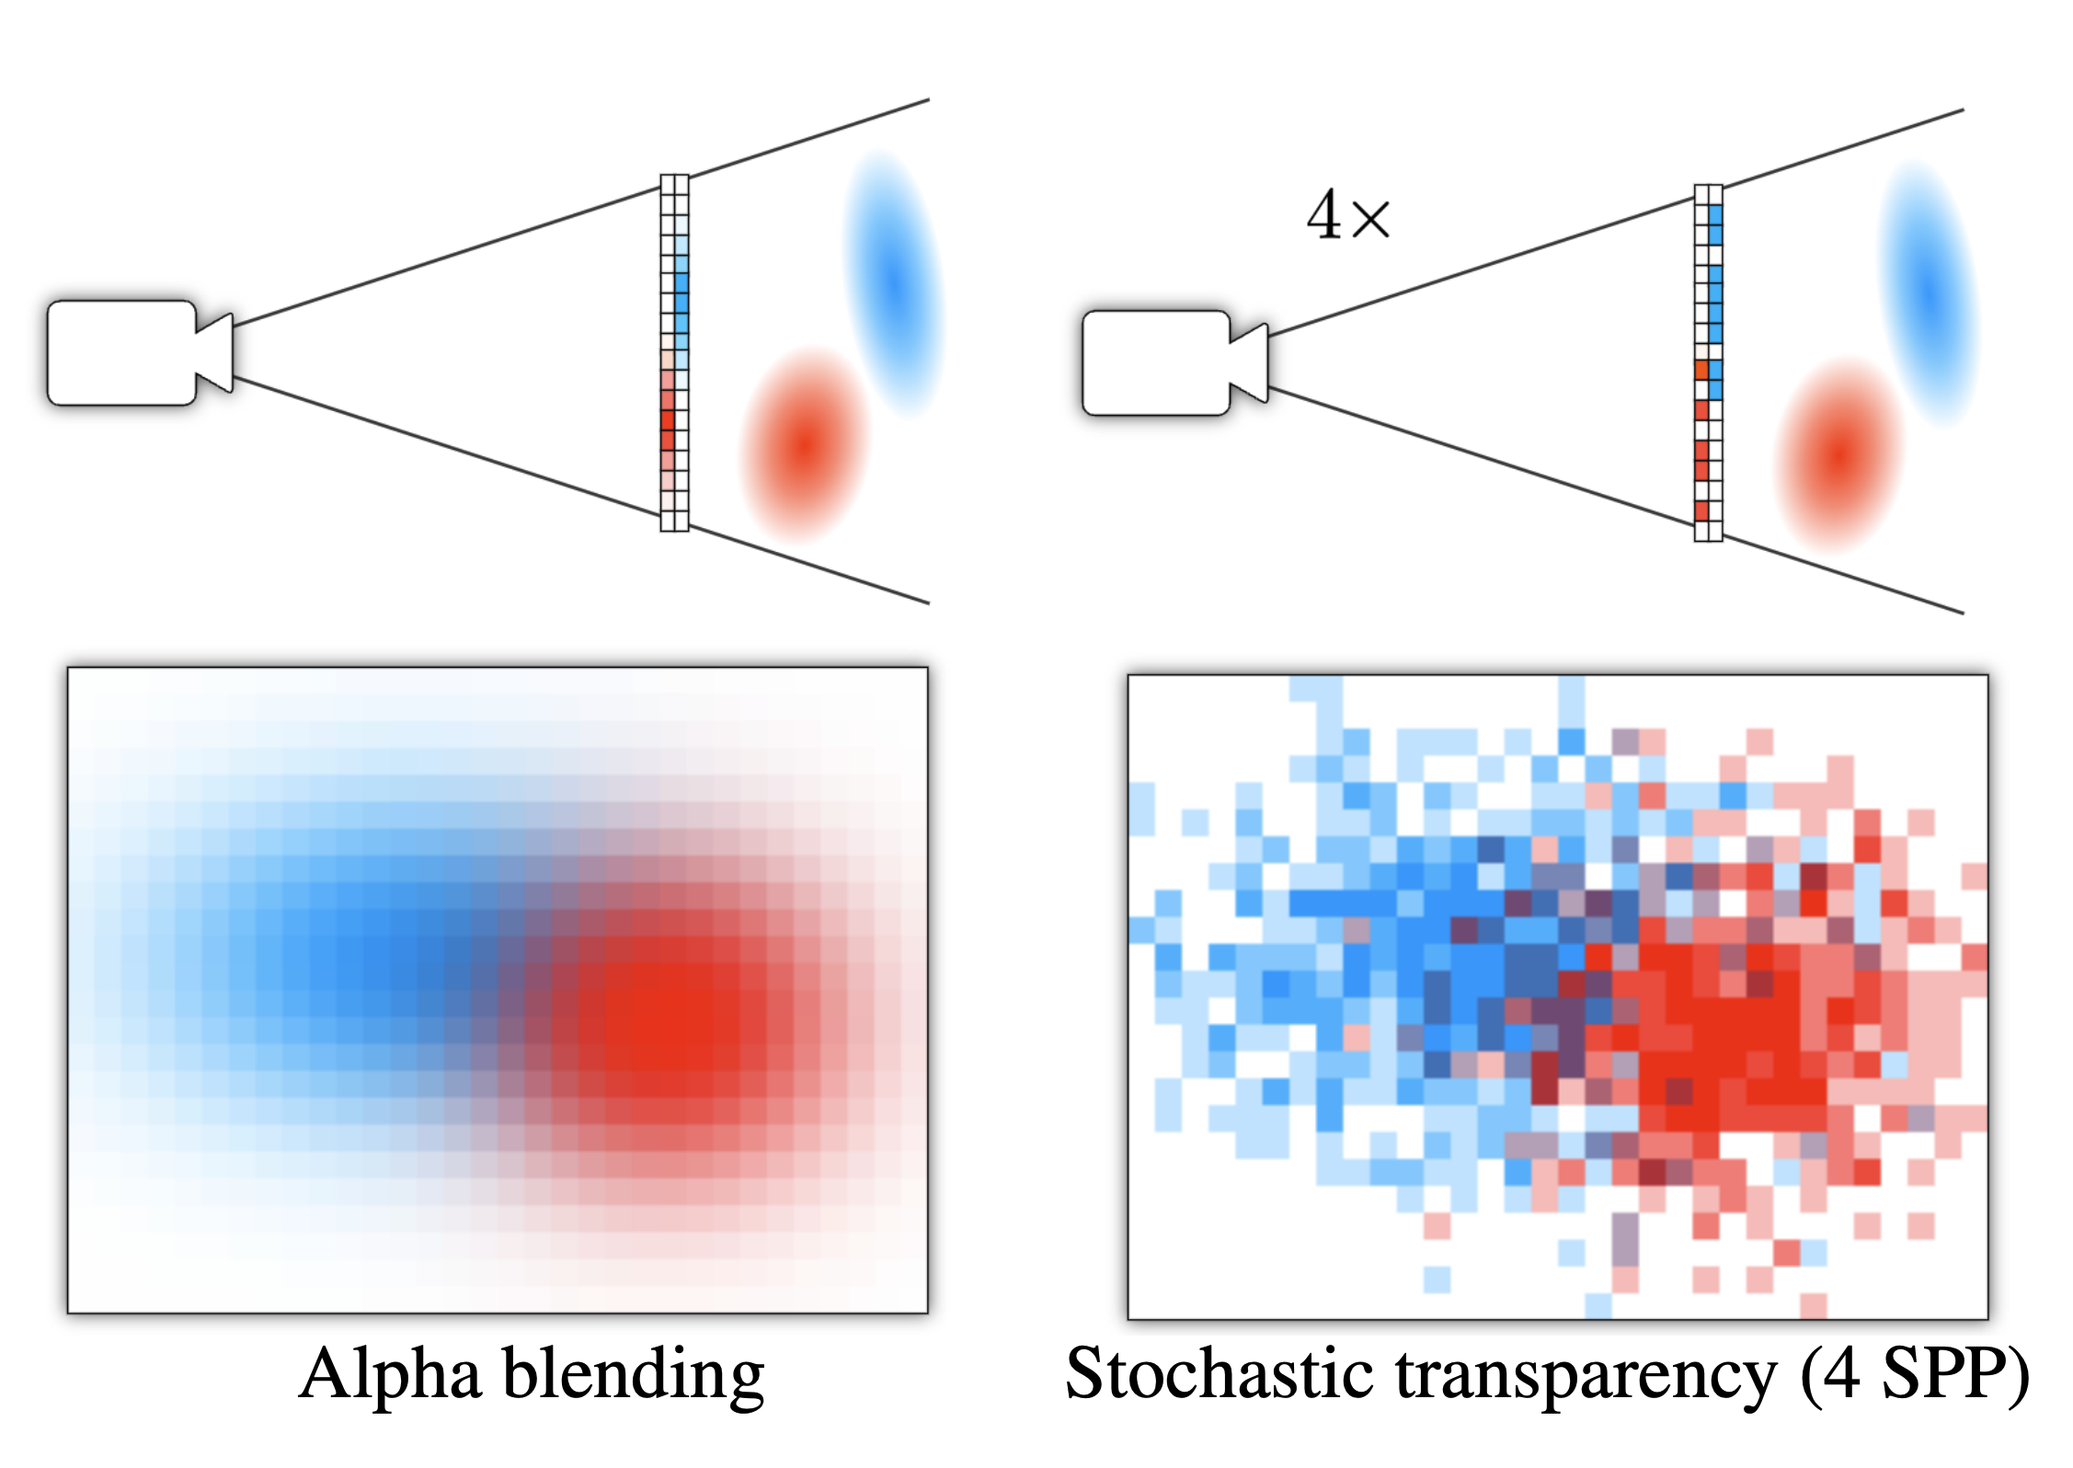
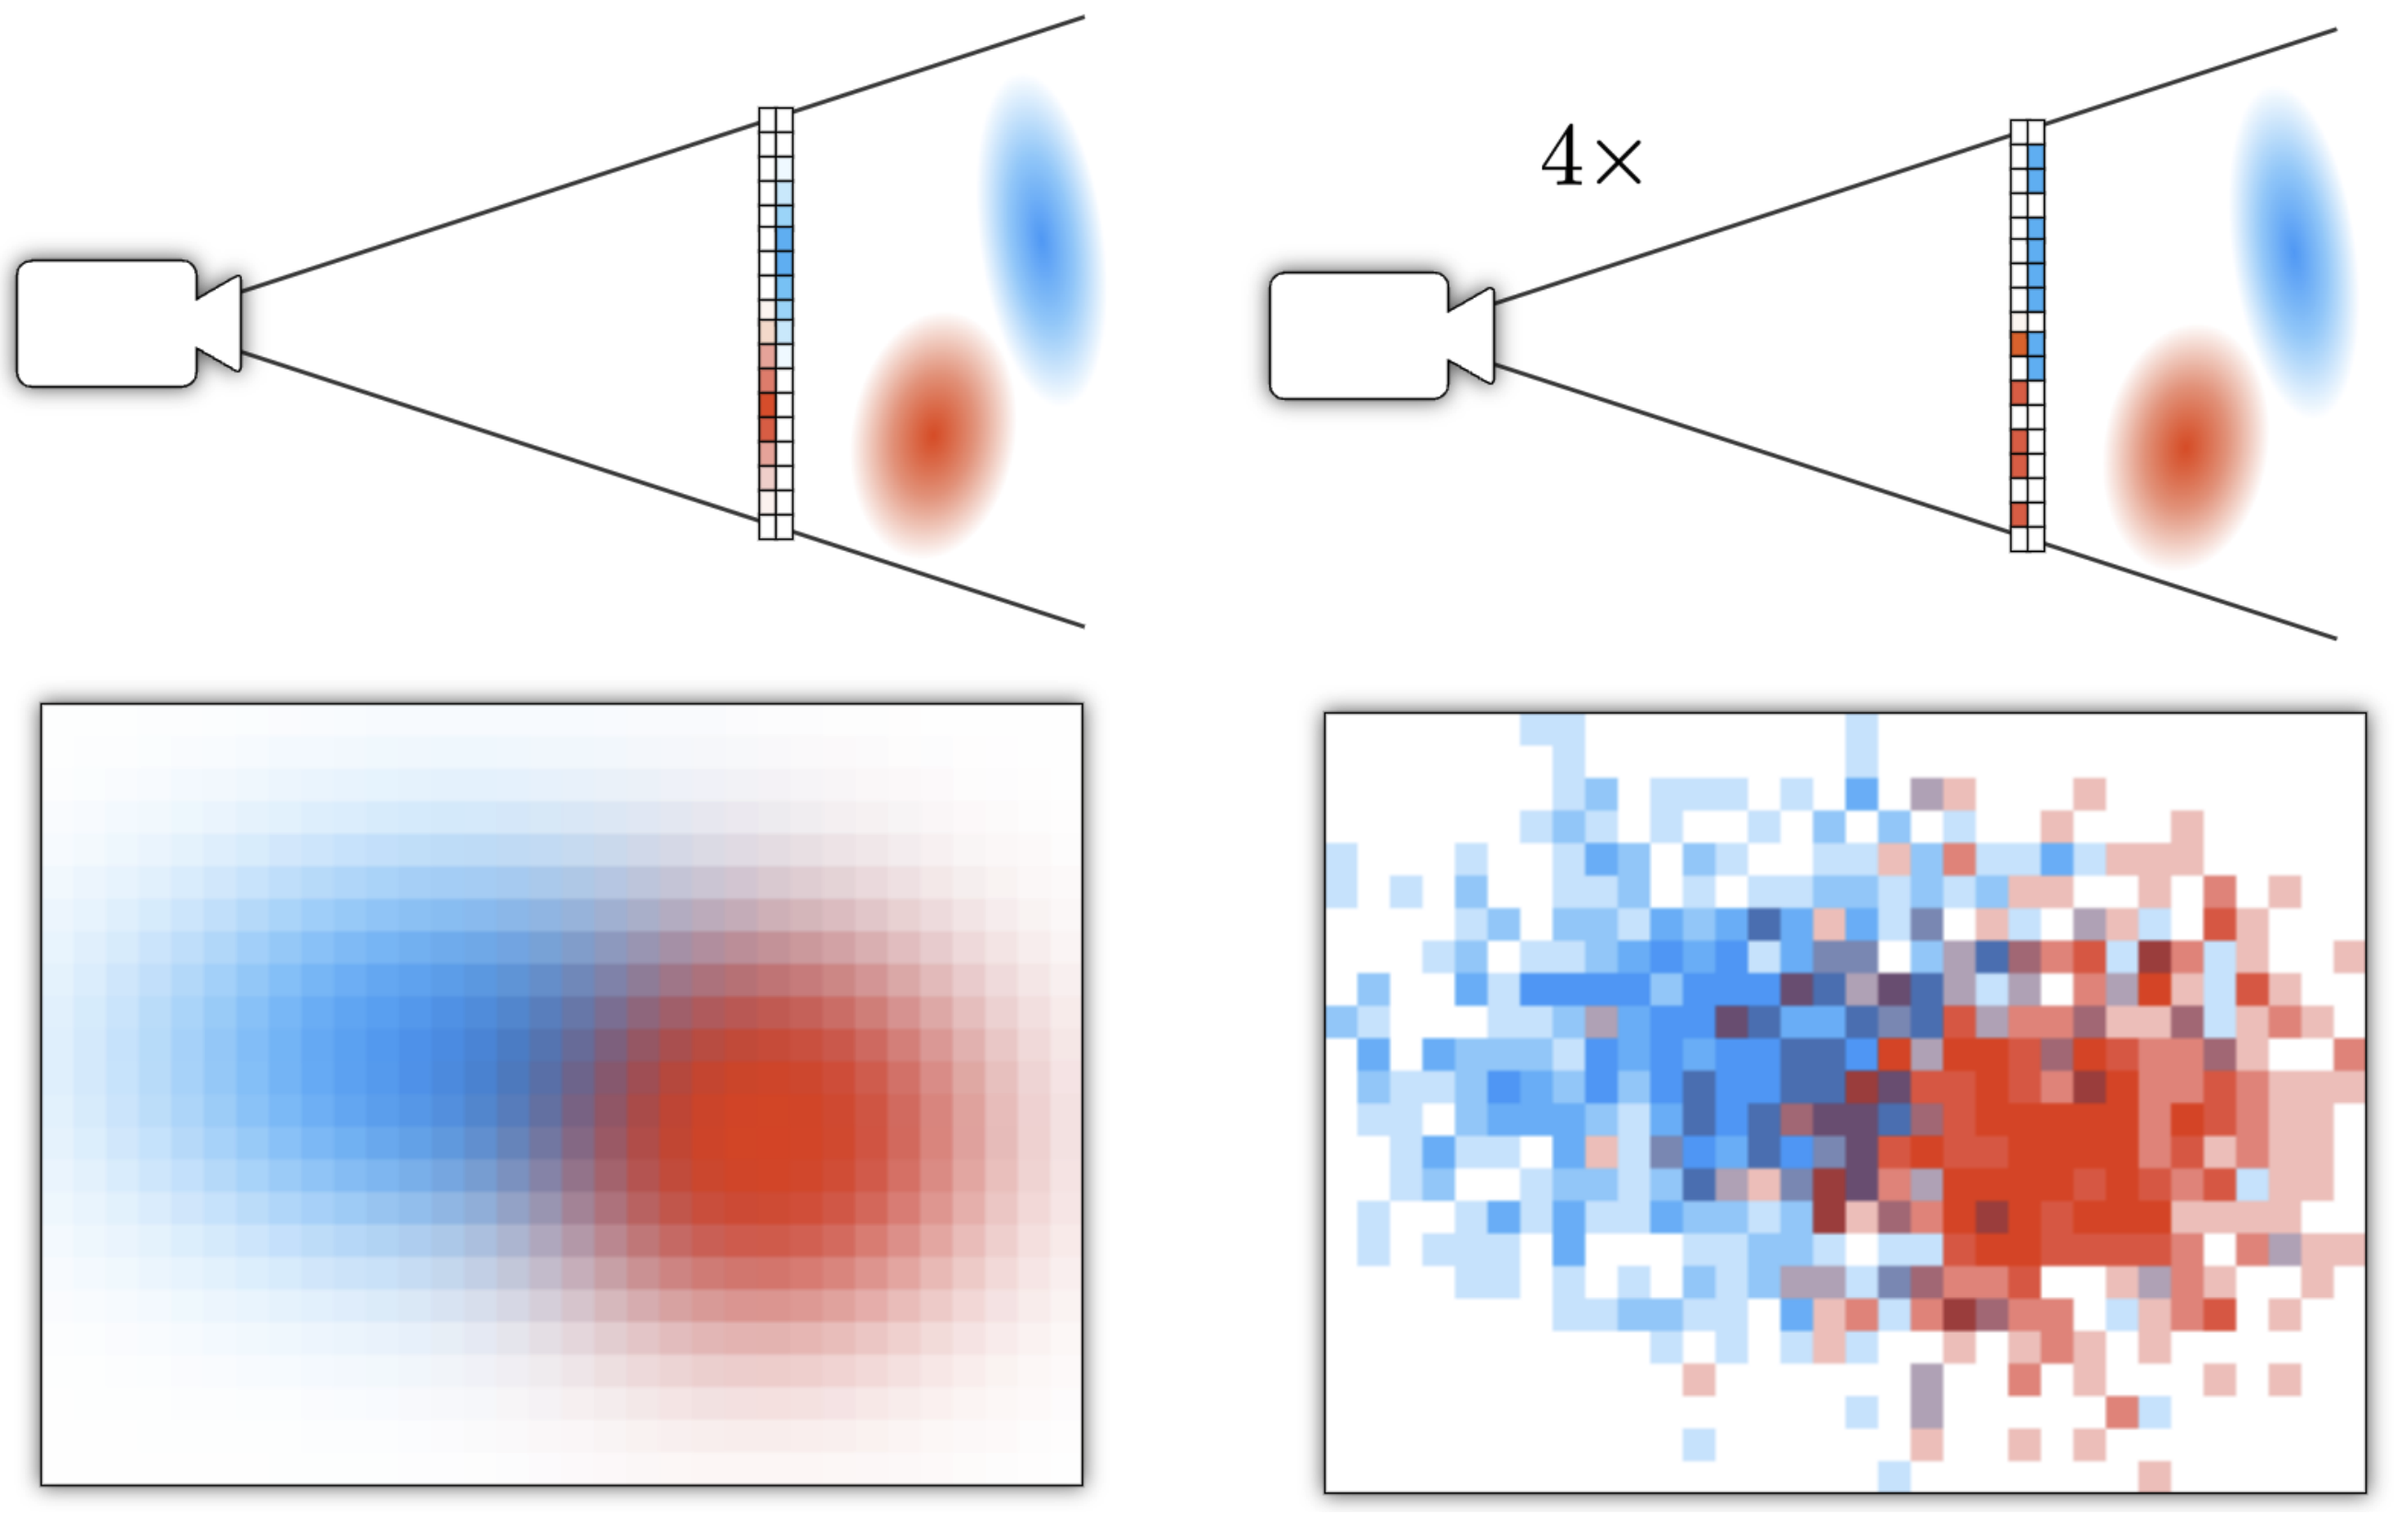
st intro update

diff --git a/docs/index.html b/docs/index.html
@@ -193,6 +193,10 @@
                 <figure style="width: 49%;">
                     <img src="resources/images/st_intro.png" alt="Stochastic transparency introduction"
                         style="width: 100%; display: block;" />
+                    <figcaption class="subcaption-container">
+                        <span>Alpha blending</span>
+                        <span>Stochastic transparency (4 SPP)</span>
+                    </figcaption>
                     <figcaption><b>Blending vs. stochastic</b> - We visualize a 1D and 3D example of the different ways
                         to compute transparency. Two foreground Gaussians are composited on a white background.
                     </figcaption>
@@ -243,16 +247,13 @@
                         <span>StopThePop vs. ours</span>
                     </figcaption>
                     <figcaption>
-                        <b>Popping in 3DGS</b> – (left) As sorting in 3DGS is done
-                        with respect to the z distance of the Gaussian mean from the
-                        camera, a small camera rotation can cause visible "popping" artifacts (i.e., sudden pixel color
-                        changes). (right) StopThePop [Radl et al. 2024]
-                        corrects for this behavior by associating a surface with each Gaussian, and determining the
-                        depth z per-fragment (dashed line),
-                        rather than per-Gaussian. Our solution leads to visually comparable results, but approximates
-                        this surface linearly (solid line), so
-                        that per-fragment depth z can be computed efficiently in hardware
-                        .
+                        <b>Popping in 3DGS</b> – (left) As sorting in 3DGS is done with respect to the z distance of the
+                        Gaussian mean from the camera, a small camera rotation can cause visible "popping" artifacts
+                        (i.e., sudden pixel color changes). (right) StopThePop [Radl et al. 2024] corrects for this
+                        behavior by associating a surface with each Gaussian, and determining the depth z per-fragment
+                        (dashed line), rather than per-Gaussian. Our solution leads to visually comparable results, but
+                        approximates this surface linearly (solid line), so that per-fragment depth z can be computed
+                        efficiently in hardware.
                     </figcaption>
                 </figure>
 
